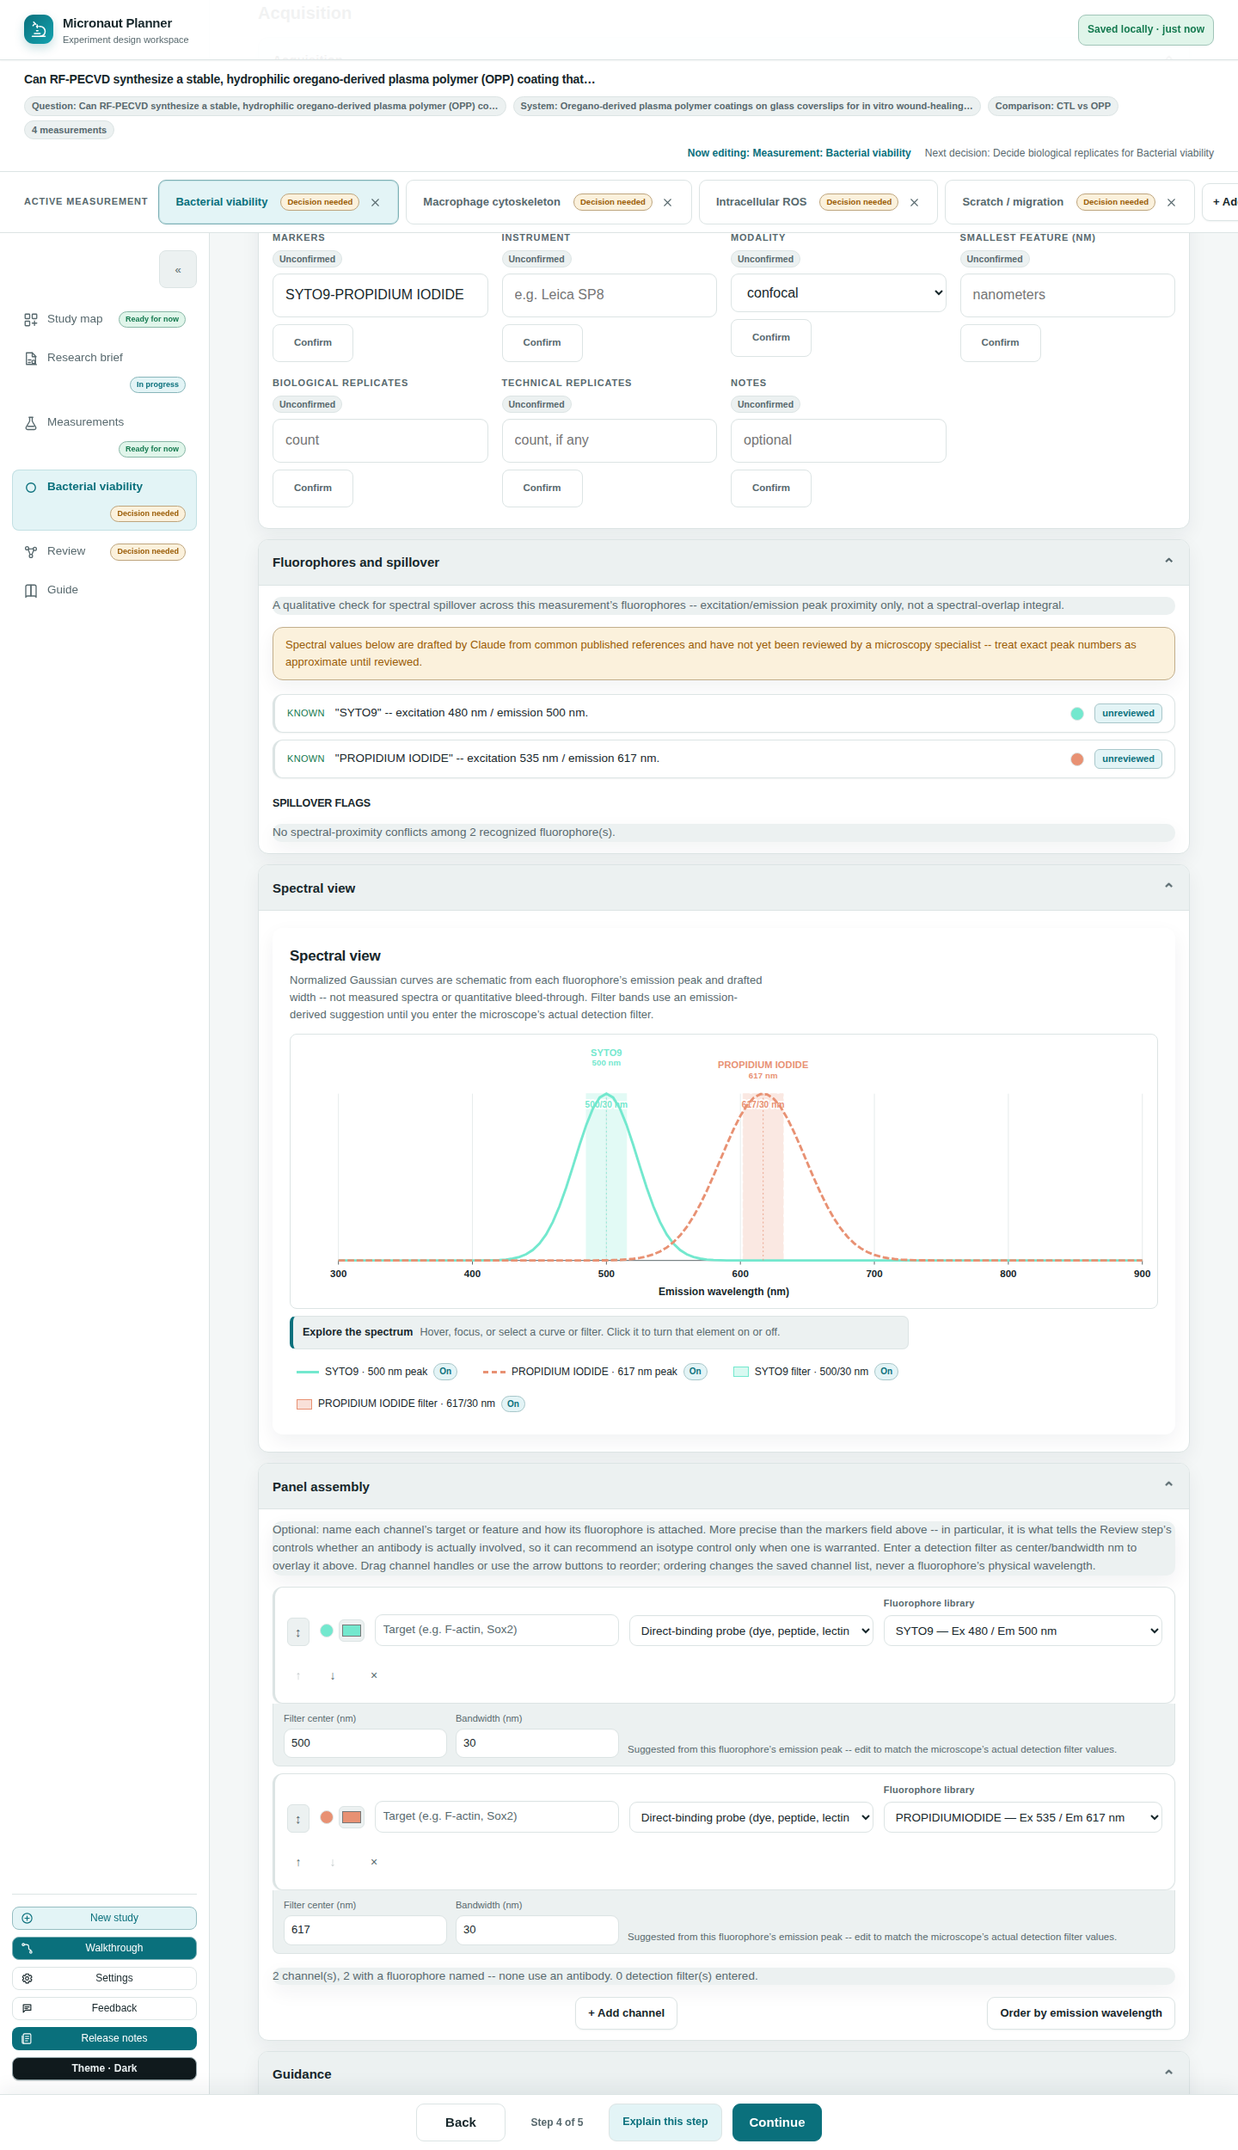
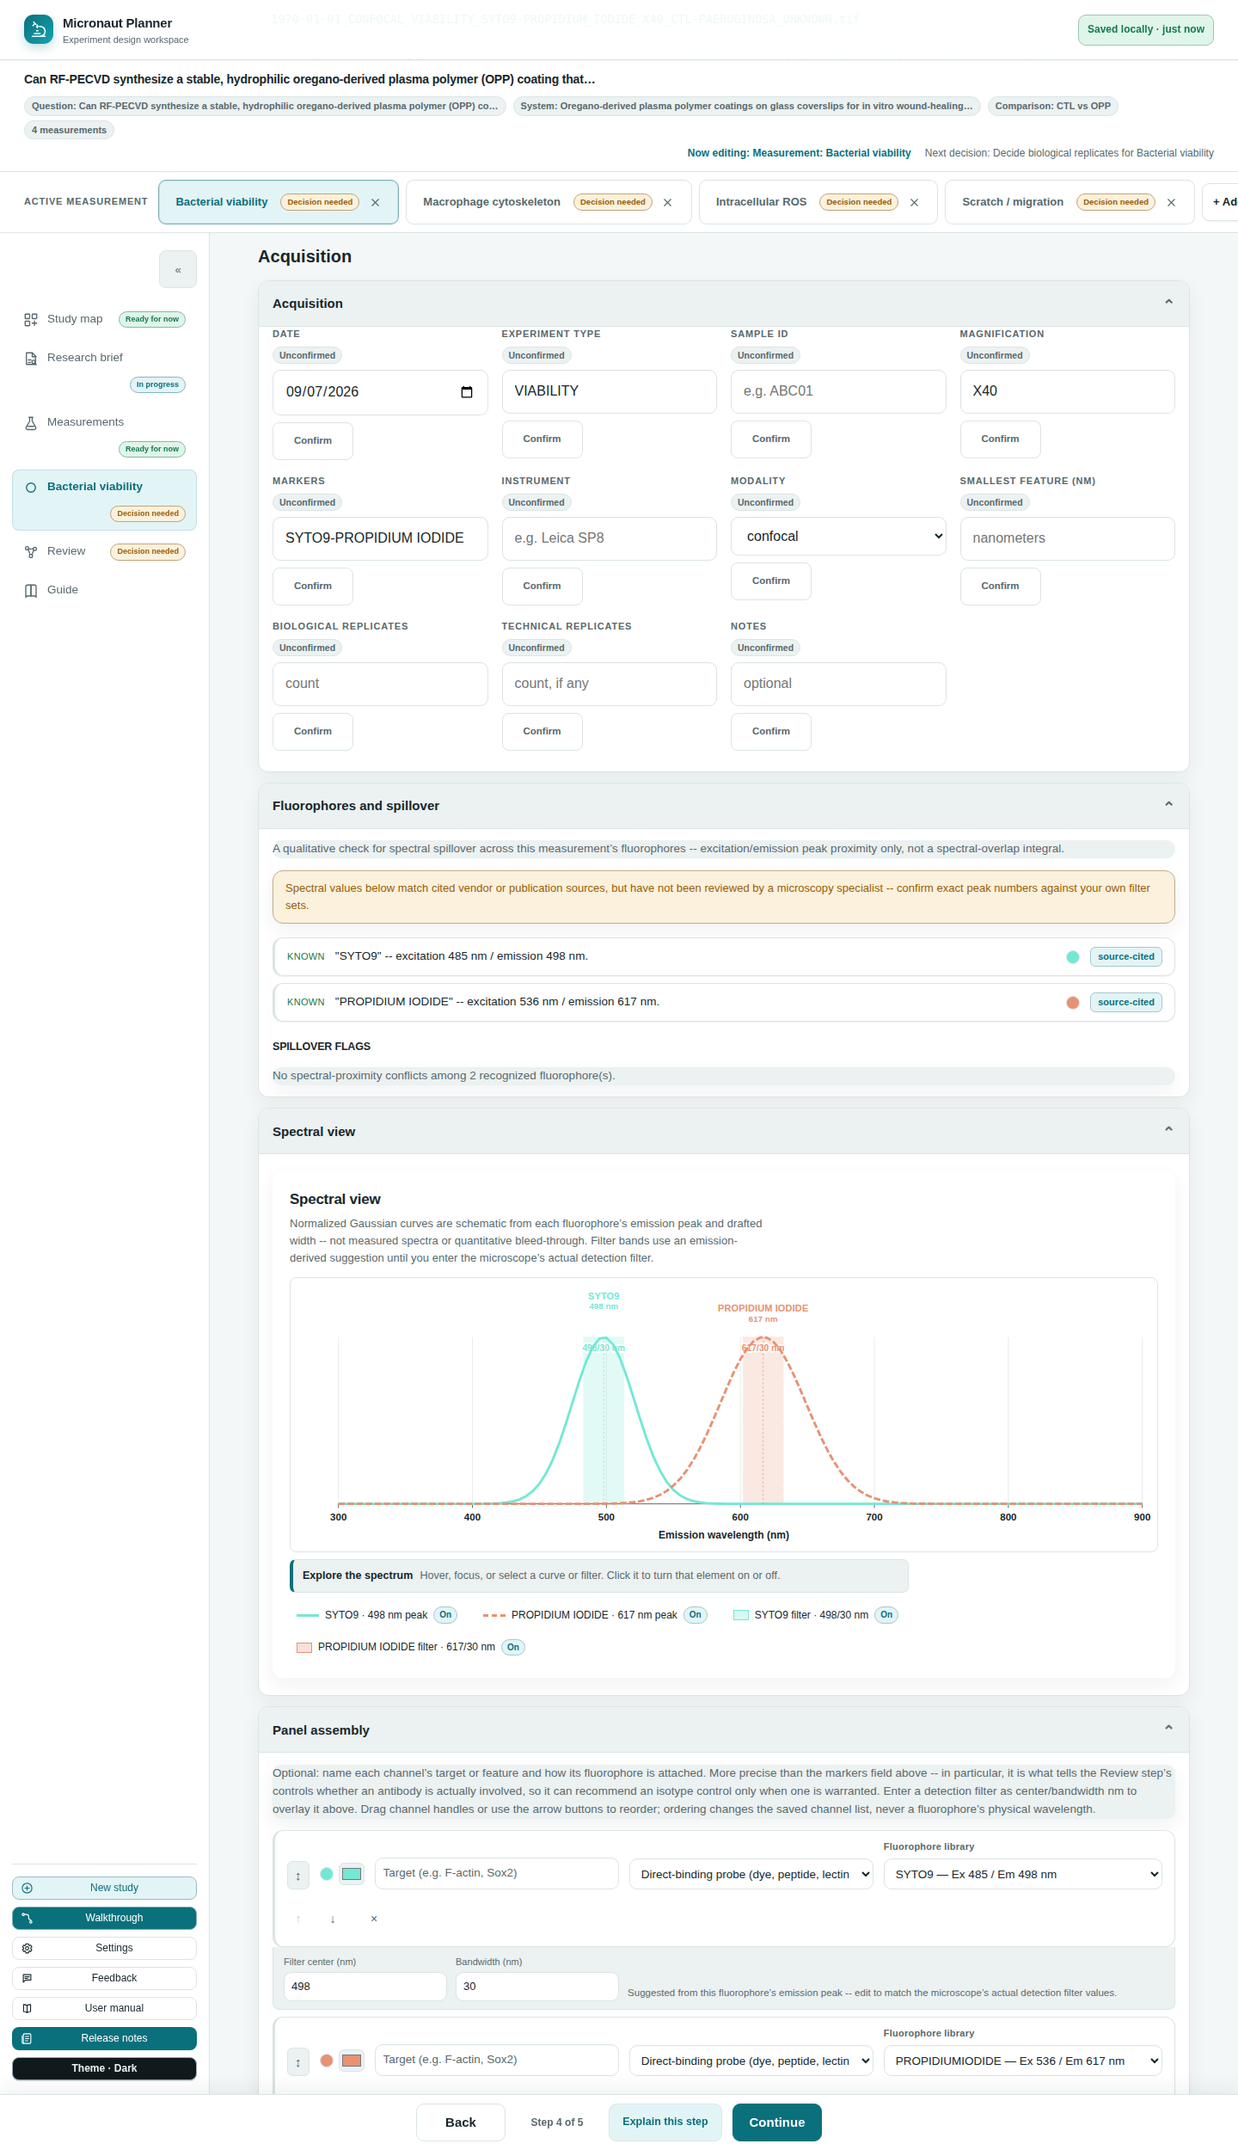
Capture the manual's missing screenshots
Three chapters described screens they never showed. Adds four captures --
Samples & design, Data plan, Settings, and a measurement's suggested
controls on Review -- and wires them into the conditions/controls,
naming and backups chapters. Big Ideas and the glossary stay text-only;
neither has a screen to show.

Fixes the capture tool while adding them. The app's header is a stack of
sticky bars, each pinned below the one above, but only the topmost was
measured, so a scrolled-to section landed ~200px behind the chrome with
its heading cut off. It now measures the whole pinned stack, re-checks
after the page settles, and takes scroll targets as CSS selectors so a
target with no id (Review's Controls block, which also needs its
collapsed <details> opened first) can be captured at all. That also
un-clips the existing Acquisition screenshot.

Claude-Session: https://claude.ai/code/session_01QSFCVq6r9E2mshqDSFBbu3

diff --git a/web/manual/conditions-controls.html b/web/manual/conditions-controls.html
@@ -36,6 +36,13 @@
     </section>
 
     <section>
+      <figure class="shot">
+        <img src="images/08-measurement-design.png" alt="The Samples &amp; design section of a measurement, showing the study-wide experimental unit, the organism field, the CTL and OPP groups, and a species factor with two levels." loading="lazy"
+             onerror="this.closest('.shot').classList.add('pending')">
+        <div class="ph">Snapshot pending — the Samples &amp; design section with its groups, factors and replicate fields.</div>
+        <figcaption>Everything on this page starts here: <strong>Samples &amp; design</strong> holds the experimental unit, the groups (CTL and OPP), and any factors that cross them.</figcaption>
+      </figure>
+
       <h2 id="groups">Groups: mutually exclusive alternatives</h2>
       <p><strong>Groups</strong> are your experimental groups — a control group and one or more treatment groups, for example. Every sample belongs to exactly <strong>one</strong> group; groups are, by construction, mutually exclusive alternatives, never something that crosses with itself. You set them on a measurement's own Samples &amp; design page (see <a href="measurements.html#registry-groups">Measurements Registry</a> for how a new measurement seeds its groups from an existing one, and the "copy to measurements that have none" shortcut).</p>
       <p>Add a group with <strong>Add group</strong>; each one gets its own name box and a <strong>Remove</strong> button. An observational study — one that isn't comparing groups at all — may legitimately have none.</p>
@@ -71,6 +78,13 @@
     <section id="panel-controls">
       <h2 id="controls-overview">Where controls come from</h2>
       <p>On <strong>Review</strong>, each measurement gets a list of suggested controls — panel-derived and readout-specific — with a stated reason attached to every one. These are not typed in by hand: they come from a rules knowledge base, evaluated against facts your measurement's Acquisition and readout answers already establish. Micronaut never assumes "no controls needed" from silence — an empty controls list is always shown as its own explicit sentence, never left blank.</p>
+      <figure class="shot">
+        <img src="images/11-overview-controls.png" alt="The Controls block on the Review screen, listing panel-derived controls (unstained/autofluorescence, single-stain) and a readout-specific heat-killed control, each followed by the reason it is suggested." loading="lazy"
+             onerror="this.closest('.shot').classList.add('pending')">
+        <div class="ph">Snapshot pending — the Controls block on Review, split into panel-derived and readout-specific.</div>
+        <figcaption>Suggested controls as they appear on <strong>Review</strong>: panel-derived first, then readout-specific, each with the reason it was suggested spelled out after the dash.</figcaption>
+      </figure>
+
       <p>Two kinds of control rule exist, and both key off facts your Acquisition panel already derives (see <a href="acquisition.html">Acquisition &amp; the Spectral View</a>):</p>
       <div class="table-wrap">
       <table>

diff --git a/web/manual/validation-naming.html b/web/manual/validation-naming.html
@@ -37,6 +37,13 @@
       </section>
 
       <section>
+        <figure class="shot">
+          <img src="images/09-measurement-dataplan.png" alt="The Data plan section, showing the naming fields (date, modality, experiment type, markers, magnification, group, sample), the four planned filenames generated from them, and a note listing UNKNOWN as a generated placeholder." loading="lazy"
+               onerror="this.closest('.shot').classList.add('pending')">
+          <div class="ph">Snapshot pending — the Data plan section with its naming fields and generated filename preview.</div>
+          <figcaption>The <strong>Data plan</strong> section: the fields on top, the filenames they produce underneath, and an explicit note naming every placeholder still standing in for a value you haven't supplied.</figcaption>
+        </figure>
+
         <h2 id="the-filename-template">The filename template</h2>
         <p>Every planned filename in Micronaut is built from one template, applied the same way to every measurement in every study:</p>
         <div class="table-wrap">

diff --git a/web/manual/saving-privacy.html b/web/manual/saving-privacy.html
@@ -71,6 +71,13 @@
       </section>
 
       <section>
+        <figure class="shot">
+          <img src="images/10-settings-storage.png" alt="The Settings screen, showing Download project backup, Import project backup, Start a blank study and Clear all stored data buttons, with a note explaining what clearing removes." loading="lazy"
+               onerror="this.closest('.shot').classList.add('pending')">
+          <div class="ph">Snapshot pending — the Settings screen's backup and storage controls.</div>
+          <figcaption><strong>Settings</strong> gathers every storage action in one row: the two backup actions, a blank start, and the one destructive control, each with its consequences written next to it.</figcaption>
+        </figure>
+
         <h2 id="backups">Project backups: export and import</h2>
         <p>A project backup is a single <code>.json</code> file holding your entire study. It's the one copy that survives clearing your browser's storage, moving to a new computer, or sharing your plan with a collaborator.</p>
         <ol class="steps">

diff --git a/tools/capture_screenshots.py b/tools/capture_screenshots.py
@@ -56,7 +56,13 @@ DEFAULT_CHROME = "/opt/pw-browsers/chromium-1194/chrome-linux/chrome"
 #               has rendered and before the screenshot is taken -- used to
 #               reveal state that requires a click (e.g. "Seed from markers
 #               field" to populate the structured fluorophore-channel table)
-#   scroll_to   optional element id to scroll into view before capture
+#   scroll_to   optional CSS selector to scroll into view before capture.
+#               The app's header and measurement switcher are sticky at the
+#               top of the viewport, so scrolling an element to y=0 would
+#               park it *behind* them; SCROLL_INTO_VIEW_JS measures that
+#               pinned chrome and backs off by its height, which is why this
+#               is a selector rather than a bare id (some targets, like the
+#               Review screen's Controls block, have a class but no id).
 #   caption     suggested one-line caption for docs/images/README.md
 # ---------------------------------------------------------------------------
 SEED_FROM_MARKERS_JS = """
@@ -66,6 +72,55 @@ SEED_FROM_MARKERS_JS = """
   if (btn) btn.click();
   return Boolean(btn);
 })()
+"""
+
+# scrollIntoView aligns the target to y=0, but .shell-header and the
+# measurement switcher are sticky at the top and would then sit on top of it
+# -- the captured shot loses exactly the section heading it was aimed at. So
+# measure whatever is actually pinned to the top right now (rather than
+# hard-coding a header height that silently rots when the chrome changes) and
+# scroll back by it.
+SCROLL_INTO_VIEW_JS = """
+((selector) => {
+  const target = document.querySelector(selector);
+  if (!target) return false;
+  const scroller = document.scrollingElement || document.documentElement;
+  // Measure the pinned chrome before moving: it is sticky, so its height is
+  // the same at any scroll offset, and reading it first keeps this one
+  // deterministic measure-then-set rather than a scroll-then-correct dance
+  // (which drifts when opening a <details> reflows the page underneath it).
+  let pinnedBottom = 0;
+  for (const node of document.querySelectorAll('body *')) {
+    const pos = getComputedStyle(node).position;
+    if (pos !== 'sticky' && pos !== 'fixed') continue;
+    const rect = node.getBoundingClientRect();
+    // Real chrome, not a full-height overlay.
+    if (rect.height <= 0 || rect.height > window.innerHeight / 2) continue;
+    // The chrome is a STACK of sticky bars (header, study summary, the
+    // measurement switcher), each pinned at its own `top:` offset below the
+    // one above it -- so only the first has top ~0. Testing for top ~0 would
+    // measure just that one and park the target behind all the rest, which is
+    // the bug this comment exists to prevent a re-introduction of. Take the
+    // lowest edge of anything pinned in the upper third instead.
+    if (rect.top < -4 || rect.top > window.innerHeight / 3) continue;
+    if (rect.bottom > pinnedBottom) pinnedBottom = rect.bottom;
+  }
+  const desiredTop = pinnedBottom + 12;
+  const pageY = target.getBoundingClientRect().top + scroller.scrollTop;
+  scroller.scrollTop = Math.max(0, pageY - desiredTop);
+  // Opening a <details> above the target reflows the page, so the position
+  // measured a moment ago can already be stale. Re-measure and correct until
+  // the target actually sits just below the chrome (a couple of passes is
+  // always enough; the bound just stops a pathological loop).
+  for (let i = 0; i < 5; i += 1) {
+    const drift = target.getBoundingClientRect().top - desiredTop;
+    if (Math.abs(drift) <= 2) break;
+    const before = scroller.scrollTop;
+    scroller.scrollTop = Math.max(0, before + drift);
+    if (scroller.scrollTop === before) break;  // already at a scroll limit
+  }
+  return true;
+})(%s)
 """
 
 SCREENS = [
@@ -137,7 +192,7 @@ SCREENS = [
             """,
             SEED_FROM_MARKERS_JS,
         ],
-        scroll_to="measurement-section-acquisition",
+        scroll_to="#measurement-section-acquisition",
         caption="Measurement -- Acquisition panel with fluorophore channels seeded from the markers field, and the spectral overlap view.",
     ),
     dict(
@@ -166,6 +221,60 @@ SCREENS = [
         actions=[],
         scroll_to=None,
         caption="Review screen in dark theme.",
+    ),
+    # 08-10 back the user manual's chapters that had no screenshot of their
+    # own (web/manual/conditions-controls.html, validation-naming.html and
+    # saving-privacy.html). Nothing here is manual-specific -- they are just
+    # the three app screens those chapters describe.
+    dict(
+        name="08-measurement-design",
+        hash="measurement",
+        viewport=(1440, 1800),
+        theme="light",
+        actions=[],
+        scroll_to="#measurement-section-design",
+        caption="Measurement -- Samples & design: the comparison groups, the conditions derived from them, and the controls the planner suggests with its reason for each.",
+    ),
+    dict(
+        name="09-measurement-dataplan",
+        hash="measurement",
+        viewport=(1440, 1800),
+        theme="light",
+        actions=[],
+        scroll_to="#measurement-section-dataplan",
+        caption="Measurement -- Data plan: the filename convention, its generated preview names, and the planner checks that guard them.",
+    ),
+    dict(
+        name="10-settings-storage",
+        hash="settings",
+        viewport=(1440, 900),
+        theme="light",
+        actions=[],
+        scroll_to=None,
+        caption="Settings -- project backup download/import and the storage controls that manage locally saved versions.",
+    ),
+    dict(
+        # The controls the planner suggests are rendered on Review, not in the
+        # measurement's own design section (overview.js's renderControlsNode),
+        # so the manual's Conditions/Groups/Controls chapter needs this second
+        # shot to show the controls half of its own subject.
+        name="11-overview-controls",
+        hash="overview",
+        viewport=(1440, 1100),
+        theme="light",
+        actions=[
+            # Each measurement's Review entry is a <details class="overview-assay">
+            # collapsed by default, and the Controls block lives inside one --
+            # without this it is display:none and there is nothing to scroll to.
+            """
+            (() => {
+              document.querySelectorAll('details.overview-assay').forEach((d) => { d.open = true; });
+              return true;
+            })()
+            """
+        ],
+        scroll_to=".overview-controls",
+        caption="Review -- the controls the planner suggests for a measurement, split into panel-derived and readout-specific, each with the reason it is suggested.",
     ),
 ]
 
@@ -545,10 +654,19 @@ def main() -> int:
                 session.evaluate(action_js)
                 time.sleep(0.3)
             if screen["scroll_to"]:
-                session.evaluate(
-                    f"document.getElementById('{screen['scroll_to']}')?.scrollIntoView({{block:'start'}})"
-                )
-                time.sleep(0.3)
+                scroll_js = SCROLL_INTO_VIEW_JS % json.dumps(screen["scroll_to"])
+                # Run it, let the page settle, then run it again: expanding a
+                # section pushes content around for a beat after the scroll, so
+                # a single pass lands the target and then drifts out of frame.
+                # The scroll is idempotent, so the second pass is a no-op when
+                # nothing moved and a correction when it did.
+                for _ in range(2):
+                    scrolled = session.evaluate(scroll_js)
+                    if not scrolled:
+                        raise RuntimeError(
+                            f"{screen['name']}: scroll_to selector {screen['scroll_to']!r} matched nothing"
+                        )
+                    time.sleep(0.4)
             # Let any chart/canvas redraw settle after scroll/theme/DOM churn.
             time.sleep(0.3)
             # Deliberately NOT passing captureBeyondViewport+clip: that pair

diff --git a/docs/images/README.md b/docs/images/README.md
@@ -26,6 +26,10 @@ python3 tools/capture_screenshots.py
 | `05-overview-review.png` | Review (`#/overview`) | Review -- the whole study's readiness, its diagram, and its exports in one screen. |
 | `06-guide.png` | Guide (`#/guide`) | Guide -- searchable in-app reference for every term and step. |
 | `07-overview-dark.png` | Review (`#/overview`), dark theme | Review screen in dark theme. |
+| `08-measurement-design.png` | Measurement → Samples & design (`#/measurement`) | Measurement -- Samples & design: the comparison groups, the conditions derived from them, and the controls the planner suggests with its reason for each. |
+| `09-measurement-dataplan.png` | Measurement → Data plan (`#/measurement`) | Measurement -- Data plan: the filename convention, its generated preview names, and the planner checks that guard them. |
+| `10-settings-storage.png` | Settings (`#/settings`) | Settings -- project backup download/import and the storage controls that manage locally saved versions. |
+| `11-overview-controls.png` | Review → a measurement's Controls (`#/overview`) | Review -- the controls the planner suggests for a measurement, split into panel-derived and readout-specific, each with the reason it is suggested. |
 
 ## How the study is seeded
 
@@ -43,6 +47,18 @@ the seeded "Bacterial viability" measurement (its real organism, marker, and
 magnification values) before clicking "Review description" -- this
 demonstrates the deterministic free-text parser without inventing any new
 scientific claim.
+
+`11-overview-controls.png` needs the same treatment for a different reason:
+each measurement's entry on Review is a collapsed `<details>`, and the
+Controls block lives inside one, so the script opens them before scrolling --
+otherwise the target is `display: none` and there is nothing to capture.
+
+Anything with a `scroll_to` selector is positioned by measuring the app's
+sticky chrome and scrolling the target just below it. That chrome is a *stack*
+of sticky bars (header, study summary, measurement switcher), each pinned at
+its own offset below the one above, so the measurement takes the lowest edge
+of everything pinned near the top -- measuring only the topmost bar parks the
+target behind the other two.
 
 For `04-measurement-acquisition.png`, the script expands the Acquisition
 section's collapsed accordions (Fluorophores and spillover, Spectral view,

diff --git a/web/release-notes/CHANGELOG.md b/web/release-notes/CHANGELOG.md
@@ -24,6 +24,20 @@ that existing history, not a scheme that was tracked from day one.
   manual's own pages for its search index. The Guide step in the app links
   out to the full manual for readers who want more than the in-app
   reference.
+- Four reference screenshots (Samples & design, Data plan, Settings, and a
+  measurement's suggested controls on Review), so the manual's chapters on
+  conditions/controls, naming and backups illustrate the screens they
+  describe instead of only naming them.
+
+### Fixed
+- `tools/capture_screenshots.py` positioned a scrolled-to section behind the
+  app's own header. The header is a stack of sticky bars, each pinned below
+  the one above, and only the topmost was measured -- so a capture aimed at a
+  section heading cut off the heading and the first ~200px under it. It now
+  measures the whole pinned stack, and takes its scroll targets as CSS
+  selectors so a target with no id (Review's Controls block) can be captured.
+  This also un-clips the existing Acquisition screenshot.
+
 ## [0.19.0] - 2026-09-05
 
 ### Fixed
